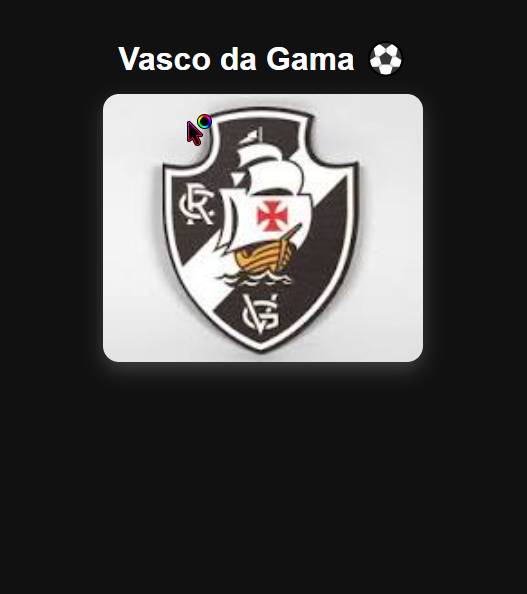
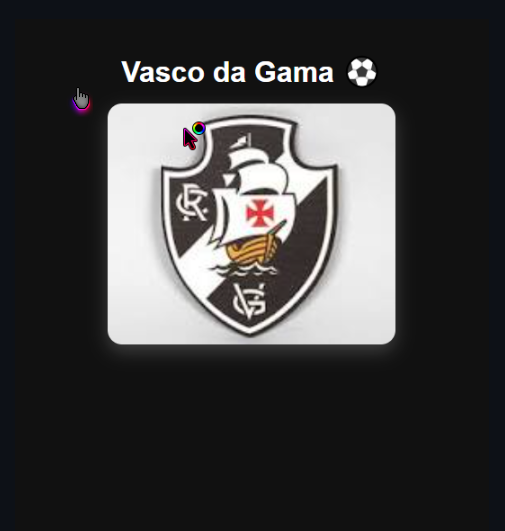
Exercicio2

Changed region(s): [[0.1188, 0.0603, 0.802, 0.6629]]

diff --git a/index.html b/index.html
@@ -1,16 +1,11 @@
 <!DOCTYPE html>
-<html lang="pt-BR">
+<html>
 <head>
-    <meta charset="UTF-8">
-    <title>Vasco da Gama</title>
-    <link rel="stylesheet" href="style.css">
+    <title>Teste JS</title>
 </head>
 <body>
 
-    <div class="container">
-        <h1 class="titulo">Vasco da Gama ⚽</h1>
[1 lines of base64/hex data omitted]
-    </div>
+<script src="script.js"></script>
 
 </body>
 </html>

diff --git a/script.js b/script.js
@@ -1,0 +1,11 @@
+var nome = "Marco";
+var idade = 18;
+var altura = 1.75;
+var estudante = true;
+
+alert(
+  "Nome: " + nome + " (tipo: " + typeof nome + ") | " +
+  "Idade: " + idade + " (tipo: " + typeof idade + ") | " +
+  "Altura: " + altura + " (tipo: " + typeof altura + ") | " +
+  "Estudante: " + estudante + " (tipo: " + typeof estudante + ")"
+);

diff --git a/README.md b/README.md
@@ -1,1 +1,3 @@
 ![alt text](image.png)
+
+![alt text](image-1.png)
